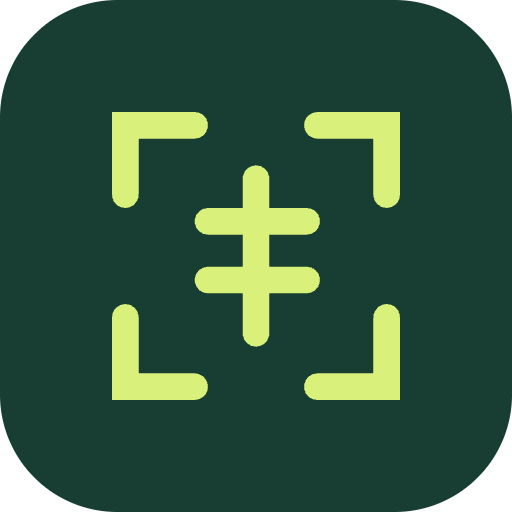
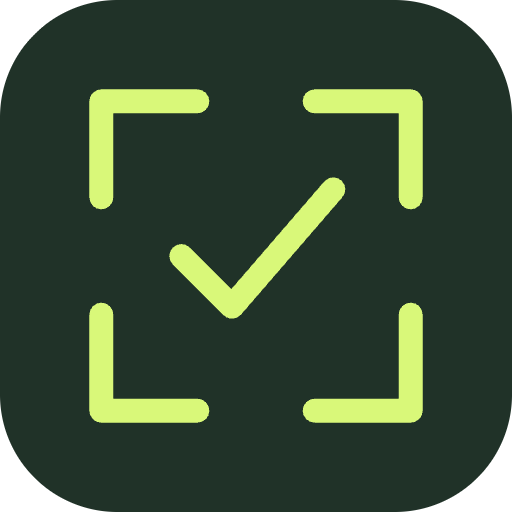
Redesign camera-first experience with ink and citrus visual system

diff --git a/src/style.css b/src/style.css
@@ -1,5 +1,4 @@
-@import url('https://fonts.googleapis.com/css2?family=DM+Sans:wght@400;500;600;700&family=Manrope:wght@400;500;600;700;800&display=swap');
-:root{font-family:'DM Sans',sans-serif;color:#18362f;background:#f6f5ef;font-synthesis:none;--green:#183e34;--lime:#d9f17b}*{box-sizing:border-box}body{margin:0}button,input,select{font:inherit}button,a,label.photo-button{-webkit-tap-highlight-color:transparent}button{cursor:pointer}button:disabled{opacity:.5;cursor:wait}button:focus-visible,select:focus-visible,input:focus-visible,a:focus-visible{outline:3px solid #689c40;outline-offset:4px}[hidden]{display:none!important}header,footer{max-width:1080px;margin:auto;padding:26px 30px;display:flex;align-items:center;justify-content:space-between}.brand{font-family:Manrope,sans-serif;text-decoration:none;color:inherit;font-size:22px;font-weight:800;display:flex;gap:8px;align-items:center}.brand-icon{font-size:35px;line-height:1}.beta{font:700 9px 'DM Sans';letter-spacing:1px;background:#e3e8d9;padding:4px 6px;border-radius:4px;margin-left:4px}.icon-button{border:1px solid #cfdbcc;border-radius:50%;width:32px;height:32px;background:transparent;font-weight:600}.intro{text-align:center;margin:42px auto 32px;padding:0 20px}.eyebrow{font-size:10px;letter-spacing:2px;font-weight:700;color:#677562}h1{font-family:Manrope,sans-serif;font-size:clamp(35px,6vw,58px);line-height:1.12;letter-spacing:-2.6px;margin:18px 0}h1 em{font-style:normal;color:#6c8053}.intro>p{font-size:15px;color:#778071}.converter{max-width:530px;margin:0 auto;background:#fff;border:1px solid #e2e6da;border-radius:24px;padding:22px;box-shadow:0 16px 60px #28371a08}.currencies{display:grid;grid-template-columns:1fr 36px 1fr;gap:10px;align-items:center;margin-bottom:18px}.currencies label,.manual>label{font-size:9px;letter-spacing:1.3px;color:#72806c;font-weight:700}.currencies select{display:block;width:100%;margin-top:8px;padding:10px 8px;background:#f5f6f1;border:1px solid #e5e9df;border-radius:9px;font-size:13px;color:var(--green);font-weight:600;min-width:0}.swap{border:1px solid #e4e9db;background:#fff;border-radius:50%;width:32px;height:32px;margin-top:17px;font-size:20px}.viewfinder{position:relative;background:#eaf0df;border-radius:15px;min-height:274px;overflow:hidden}.camera-empty{text-align:center;padding:19px}.scan-icon{font-size:45px;color:#79925f;line-height:1}h2{font-family:Manrope;font-size:20px;letter-spacing:-.7px;line-height:1.3;margin:12px 0}.camera-empty p{font-size:12px;color:#7c896c;margin:10px 0 17px}.primary{display:flex;justify-content:space-between;align-items:center;background:var(--green);color:#fff;border:0;border-radius:9px;padding:13px 17px;min-width:195px;margin:0 auto;font-size:13px}.primary span{margin-left:30px}.photo-button{display:inline-block;font-size:12px;margin:13px auto 0;text-decoration:underline;text-underline-offset:3px;cursor:pointer}.photo-button input{position:absolute;width:1px;height:1px;opacity:0}.photo-button:focus-within{outline:3px solid #689c40}video{display:none;width:100%;height:350px;object-fit:cover;background:#17231c}canvas{width:100%;height:auto;max-height:350px;object-fit:contain;background:#17231c}.camera-active video{display:block}.frame-guide{position:absolute;inset:28% 12% 35%;border:2px solid var(--lime);border-radius:12px;box-shadow:0 0 0 1000px #0002;pointer-events:none}.camera-tip{position:absolute;bottom:75px;color:white;text-align:center;width:100%;font-size:11px;text-shadow:0 1px 4px #000}.shutter{position:absolute;bottom:15px;left:calc(50% - 26px);border:5px solid #fff;background:var(--lime);border-radius:50%;height:52px;width:52px;box-shadow:0 0 0 2px #fff6}.close-camera{position:absolute;right:12px;top:12px;width:30px;height:30px;border:0;border-radius:50%;background:#0008;color:#fff;font-size:21px}#scan-busy{position:absolute;inset:0;background:#eaf0dff5;display:flex;flex-direction:column;align-items:center;justify-content:center;gap:13px;font-size:14px}#scan-progress{font-size:11px;color:#647b58}.spinner{width:24px;height:24px;border:2px solid #c5d5b2;border-top-color:var(--green);border-radius:50%;animation:spin 1s linear infinite}@keyframes spin{to{transform:rotate(360deg)}}.manual{margin:23px 0 18px}.amount-line{display:flex;gap:10px;align-items:center;margin-top:7px;border-bottom:1px solid #d9e0d0;padding:0 0 12px}.amount-line input{width:100%;min-width:0;border:0;background:transparent;font-family:Manrope;font-size:33px;font-weight:600;color:var(--green);outline-offset:0}.amount-line>span:first-child{font-size:23px;color:#8a977f}.amount-line>span:last-child{font-size:12px;color:#7a8870}.result{background:var(--green);color:#fff;border-radius:14px;padding:22px 24px}.section-label{font-size:9px;letter-spacing:1.3px;font-weight:600}.result .section-label{color:#c5d4b6}#converted{font-family:Manrope;font-weight:600;font-size:clamp(26px,7vw,41px);letter-spacing:-1px;margin:8px 0;overflow-wrap:anywhere}#rate-detail{font-size:11px;color:#d4dec9}#rate-date{font-size:10px;color:#b0c39f;margin-top:6px}.bottom-note{display:flex;justify-content:space-between;align-items:center;gap:8px;padding-top:17px;font-size:9px;color:#738668}.text-button{background:none;border:none;padding:0;font-size:11px;color:inherit;text-decoration:underline;text-underline-offset:3px}.little-guide{max-width:670px;display:grid;grid-template-columns:repeat(3,1fr);gap:25px;margin:42px auto 30px;padding:0 20px}.little-guide span{font-size:10px;color:#8b9b7a}.little-guide h3{font-size:12px;margin:7px 0}.little-guide p{font-size:11px;color:#8a9281;line-height:1.6;margin:0}footer{font-size:11px;color:#8a9281;padding-top:24px;padding-bottom:30px}#status,.error{background:#fff1d7;color:#79550f;padding:12px;border-radius:9px;font-size:12px;line-height:1.5;margin-top:13px}#scan-results{padding-top:15px}#scan-results .section-label{display:flex;justify-content:space-between;color:#738668}#scan-results .section-label span{letter-spacing:0;font-weight:400}#candidates{display:flex;gap:8px;flex-wrap:wrap;margin:12px 0}#candidates button{border:1px solid #d4deca;border-radius:8px;background:#f4f7ee;color:var(--green);padding:8px 12px;font-size:14px}#candidates button.selected{background:var(--green);color:white}dialog{border:1px solid #d8dfcc;border-radius:20px;max-width:490px;width:calc(100% - 32px);padding:28px;color:var(--green);max-height:85dvh}dialog::backdrop{background:#10251dc0}dialog .icon-button{float:right}dialog p{font-size:13px;line-height:1.7;color:#62715c}dialog h3{font-size:14px}@media(max-width:580px){header,footer{padding:20px}.intro{margin-top:25px;margin-bottom:26px}h1{letter-spacing:-1.8px}.converter{margin:0 14px;padding:17px;border-radius:20px}.little-guide{gap:14px;margin-top:30px}.bottom-note{font-size:8px}.bottom-note button{font-size:10px}.currencies{gap:6px}.currencies select{font-size:12px;padding:10px 4px}footer{font-size:10px}}@media(prefers-reduced-motion:reduce){.spinner{animation:none}}
-/* Live camera: preserve video geometry for OCR overlay coordinates. */
-.camera-active{height:440px;min-height:440px;background:#14231b}.camera-active video{width:100%;height:100%;object-fit:cover}.camera-tip{bottom:12px;left:10px;right:10px;width:auto;background:#10251dd9;padding:10px 12px;border-radius:9px;z-index:3;margin:0;font-size:11px}.frame-guide{inset:12% 7% 20%;border:1px solid #d9f17b80;box-shadow:none}.close-camera{z-index:5}.price-overlay{position:absolute;border:2px solid #d9f17b;border-radius:4px;min-width:20px;min-height:12px;pointer-events:none}.price-overlay span{position:absolute;top:100%;left:-2px;max-width:220px;white-space:nowrap;background:#d9f17b;color:#102f2a;font-size:15px;font-weight:700;padding:5px 8px;border-radius:0 5px 5px 5px;box-shadow:0 2px 12px #0005}#live-overlays{position:absolute;inset:0;pointer-events:none;overflow:hidden;z-index:2}#converted{font-size:clamp(25px,7vw,41px)}.result{margin-top:18px}@media(max-width:580px){.camera-active{height:420px;min-height:420px}}
-.live-mode .intro,.live-mode .little-guide,.live-mode footer{display:none}.live-mode header{padding-top:14px;padding-bottom:14px}.live-mode .camera-active{height:clamp(320px,58dvh,640px);min-height:320px}.live-mode .converter{margin-top:8px}.live-mode .result{padding:14px 20px}.live-mode #converted{font-size:32px;margin:4px 0}
+@import url('https://fonts.googleapis.com/css2?family=DM+Sans:wght@400;450;500;550;600;650;700&family=DM+Serif+Display:ital@0;1&display=swap');
+:root{font-family:'DM Sans',sans-serif;color:#26372e;background:#f5f4ed;font-synthesis:none;--ink:#203228;--muted:#697567;--citrus:#d9f879;--line:#dfe2d5}*{box-sizing:border-box}body{margin:0}button,input,select{font:inherit}button,a,select{-webkit-tap-highlight-color:transparent}button{cursor:pointer}button:disabled{opacity:.6;cursor:wait}[hidden]{display:none!important}a{color:inherit}button:focus-visible,select:focus-visible,a:focus-visible,summary:focus-visible{outline:3px solid #7c9847;outline-offset:4px}button svg{width:21px;height:21px;stroke:currentColor;stroke-width:1.7;stroke-linecap:round;stroke-linejoin:round}button{touch-action:manipulation}.site-header{max-width:1160px;margin:auto;padding:28px 36px;display:flex;align-items:center;justify-content:space-between;border-bottom:1px solid var(--line)}.brand{display:flex;gap:8px;align-items:center;text-decoration:none;font-size:23px;font-weight:700;letter-spacing:-1px}.brand>svg{width:31px;height:31px}.brand-light{font-weight:450}.header-right{display:flex;gap:26px;align-items:center}.edition{font-size:9px;font-weight:600;letter-spacing:1.7px;color:var(--muted)}.icon-button{width:44px;height:44px;border:1px solid #d9dfd0;border-radius:50%;background:none;display:grid;place-items:center;color:var(--ink)}.workspace{max-width:1100px;margin:auto;padding:48px 24px 30px;display:grid;grid-template-columns:1fr 450px;gap:70px;align-items:center}.editorial{padding:0 0 35px}.eyebrow{font-size:9px;letter-spacing:1.6px;font-weight:650;display:flex;gap:9px;align-items:center;color:#65775c}.eyebrow>span{width:6px;height:6px;border-radius:50%;background:#6b8551}h1{font-family:'DM Serif Display',Georgia,serif;font-size:clamp(48px,5.3vw,70px);line-height:1.05;font-weight:400;letter-spacing:-2px;margin:24px 0}h1 i{font-weight:400;color:#6c8456}.editorial>p{font-size:15px;color:#71806b;line-height:1.8}.editorial-rule{height:1px;background:var(--line);max-width:260px;margin:35px 0 25px}.how-to{display:flex;gap:15px;margin:22px 0}.step-number{font-size:10px;line-height:24px;color:#859477;font-variant-numeric:tabular-nums}.how-to h2{font-size:13px;line-height:24px;margin:0;font-weight:600}.how-to p{font-size:12px;line-height:1.7;color:#78826f;margin:2px 0}.privacy-mark{display:flex;gap:8px;align-items:center;color:#667b56;font-size:10px;margin-top:38px}.privacy-mark svg{width:18px;height:18px;stroke:currentColor;stroke-width:1.5;stroke-linejoin:round}.scanner-shell{min-width:0;background:#fffef8;border:1px solid #e1e3d6;border-radius:25px;padding:18px;box-shadow:0 5px 10px #263b1d03,0 25px 75px #28371a09}.shell-heading{display:flex;justify-content:space-between;align-items:center;margin:1px 4px 16px;font-size:9px;letter-spacing:1.8px;font-weight:650;color:#748169}.beta{font-size:8px;letter-spacing:1px;background:#edf0e2;border:1px solid #e0e6d3;border-radius:4px;padding:3px 5px}.currencies{display:grid;grid-template-columns:minmax(0,1fr) 40px minmax(0,1fr);gap:10px;align-items:center;padding:0 4px 16px}.currencies label{min-width:0}.currency-label{display:flex;gap:7px;align-items:center;font-size:9px;font-weight:700;letter-spacing:1.2px}.currency-label>span{font-weight:400;font-size:10px;letter-spacing:0;color:#809076}.currencies select{display:block;background:transparent;border:0;border-bottom:1px solid #dfe4d4;border-radius:0;color:var(--ink);font-size:14px;font-weight:550;width:100%;height:40px;padding:0 16px 0 0;text-overflow:ellipsis;cursor:pointer}.swap{border:1px solid #d9dfd0;background:#f5f7ed;color:#536646;border-radius:50%;height:40px;width:40px;margin-top:12px;display:grid;place-items:center;transition:background .2s,transform .2s}.swap:hover{background:#e9efd8;transform:rotate(180deg)}.viewfinder{height:418px;position:relative;isolation:isolate;overflow:hidden;border-radius:16px;background:#24362b;color:#f6f7eb}.viewfinder:before{content:'';position:absolute;inset:0;background:radial-gradient(ellipse at 72% 10%,#6d835b30,transparent 60%),linear-gradient(145deg,#24372c,#15261d);z-index:-1}.camera-topline{position:absolute;left:18px;right:18px;top:18px;display:flex;align-items:center;justify-content:space-between;z-index:4;pointer-events:none}.camera-badge{display:flex;align-items:center;gap:6px;border:1px solid #b7c5a528;background:#17261e88;border-radius:50px;padding:6px 9px;backdrop-filter:blur(8px)}.camera-badge>span{width:5px;height:5px;border-radius:50%;background:#a1b18e}.camera-badge b,.local-badge{font-size:8px;letter-spacing:1.1px;font-weight:550}.local-badge{color:#b9c6ae}.active-label{display:none}.camera-empty{height:100%;display:flex;flex-direction:column;align-items:center;text-align:center;padding:58px 22px 18px}.ready-visual{position:relative;width:150px;height:100px;flex-shrink:0;margin:4px auto 16px}.corner{position:absolute;width:16px;height:16px;border-color:#a7be88;border-style:solid;border-width:0}.tl{top:0;left:0;border-top-width:1.5px;border-left-width:1.5px;border-top-left-radius:5px}.tr{top:0;right:0;border-top-width:1.5px;border-right-width:1.5px;border-top-right-radius:5px}.bl{bottom:0;left:0;border-bottom-width:1.5px;border-left-width:1.5px;border-bottom-left-radius:5px}.br{bottom:0;right:0;border-bottom-width:1.5px;border-right-width:1.5px;border-bottom-right-radius:5px}.price-tag{position:absolute;width:110px;height:83px;left:20px;top:10px;transform:rotate(-10deg);filter:drop-shadow(0 9px 8px #0003)}.small-cross{position:absolute;right:-13px;bottom:13px;color:#b8d595;font-size:18px;font-weight:400}.camera-empty h2{font-family:'DM Serif Display',Georgia,serif;font-size:28px;line-height:1.12;letter-spacing:-.5px;font-weight:400;margin:0}.camera-empty p{font-size:11px;color:#b6c4aa;line-height:1.6;margin:12px 0 20px}.primary{background:var(--citrus);color:#23351e;border:none;border-radius:10px;padding:14px 16px;min-height:50px;display:flex;align-items:center;gap:10px;width:100%;font-size:13px;font-weight:650;box-shadow:0 2px 0 #0002;transition:background .2s,transform .2s}.primary:hover{background:#e2ff91}.primary:active{transform:translateY(1px)}.button-arrow{margin-left:auto;font-size:20px;font-weight:400}.permission-note{font-size:9px;line-height:1.5;color:#a1b18f;margin-top:13px}video{display:none;width:100%;height:100%;object-fit:cover;background:#16261c}.camera-active video{display:block}.viewfinder-shade{display:none;position:absolute;inset:0;pointer-events:none;background:linear-gradient(#0005,transparent 25%,transparent 65%,#0006);z-index:1}.camera-active .viewfinder-shade{display:block}.camera-active .ready-label{display:none}.camera-active .active-label{display:inline}.camera-active .camera-badge>span{background:var(--citrus);box-shadow:0 0 0 3px #d9f8791a}.camera-active .local-badge{display:none}.close-camera{position:absolute;right:12px;top:11px;z-index:5;width:44px;height:44px;border:1px solid #ffffff30;border-radius:50%;background:#14271bbd;color:#fff;display:grid;place-items:center;backdrop-filter:blur(8px)}.frame-guide{position:absolute;inset:22% 8% 27%;pointer-events:none;z-index:1}.frame-guide .corner{width:22px;height:22px;border-color:#e2f9b985}.camera-tip{position:absolute;bottom:17px;left:16px;right:16px;margin:0;background:#14271bd9;border:1px solid #b7d59a25;border-radius:50px;color:#edf5df;backdrop-filter:blur(12px);padding:10px 12px;text-align:center;font-size:10px;line-height:1.5;z-index:3;pointer-events:none}.camera-tip:before{content:'';display:inline-block;width:5px;height:5px;background:var(--citrus);border-radius:50%;margin-right:7px;vertical-align:1px}#live-overlays{position:absolute;inset:0;overflow:hidden;z-index:2;pointer-events:none}.price-overlay{position:absolute;border:1.5px solid var(--citrus);border-radius:4px;min-width:18px;min-height:12px}.price-overlay span{position:absolute;top:calc(100% + 5px);left:-2px;max-width:250px;white-space:nowrap;background:var(--citrus);color:#20321d;font-size:17px;line-height:1.2;font-weight:650;font-variant-numeric:tabular-nums;letter-spacing:-.3px;padding:7px 10px;border-radius:6px;box-shadow:0 3px 15px #0004}.result{margin:15px 3px 0;padding:2px 0 16px;border-bottom:1px solid var(--line)}.result-top{display:flex;justify-content:space-between;gap:10px;align-items:center;min-height:17px}.section-label{font-size:8px;letter-spacing:1.3px;font-weight:650;color:#79836f}#source-price{font-size:10px;color:#66775b;font-variant-numeric:tabular-nums;white-space:nowrap}#converted{font-size:36px;line-height:1.2;letter-spacing:-1.5px;font-weight:500;font-variant-numeric:tabular-nums;margin:6px 0;color:#2b3c29;overflow-wrap:anywhere}.result[data-detected=false] #converted{font-size:26px;letter-spacing:-.7px;min-height:35px;display:flex;align-items:center}.result-bottom{display:flex;justify-content:space-between;align-items:center;gap:10px}#result-hint{font-size:10px;color:#7d8871}.result-spark{color:#829964;font-size:23px}.rate-notes{margin:0 3px;color:#74826b}.rate-notes summary{display:flex;justify-content:space-between;align-items:center;cursor:pointer;list-style:none;font-size:10px;min-height:44px}.rate-notes summary::-webkit-details-marker{display:none}.details-plus{font-size:18px;font-weight:400}.rate-notes[open] .details-plus{transform:rotate(45deg)}#rate-detail,#rate-date{font-size:11px;line-height:1.7;color:#6a7b5e}#rate-date{font-size:10px}.text-button{background:none;border:0;padding:0;color:inherit;font-size:10px;cursor:pointer;min-height:32px;text-underline-offset:4px}.text-button:hover{text-decoration:underline}#refresh{margin:4px 0}.scanner-footer{display:flex;align-items:center;justify-content:center;gap:6px;font-size:9px;color:#7e8d70;border-top:1px solid #e9ecdf;padding:12px 0 0}.privacy-dot{width:4px;height:4px;border-radius:50%;background:#7b9759}.footer-divider{color:#bcc6b1;margin:0 3px}#status{font-size:12px;line-height:1.6;color:#725b28;background:#f7efdc;border:1px solid #e8d9b4;border-radius:10px;padding:12px;margin:12px 0}footer{max-width:1080px;display:flex;justify-content:space-between;align-items:center;margin:8px auto 0;padding:20px 24px 24px;border-top:1px solid var(--line);color:#7b8870;font-size:10px}footer button span{margin-left:10px}dialog{max-width:470px;width:calc(100% - 28px);max-height:85dvh;border:1px solid #dce2cf;border-radius:22px;background:#fffef7;color:var(--ink);padding:28px;box-shadow:0 30px 100px #0003}dialog::backdrop{background:#13231bd9;backdrop-filter:blur(6px)}dialog .icon-button{float:right;font-size:23px;margin:-10px -10px 4px 10px}dialog .eyebrow{display:block;font-size:8px;margin:12px 0}dialog h2{font-family:'DM Serif Display',Georgia,serif;font-size:31px;line-height:1.1;font-weight:400;margin:18px 0}dialog h3{font-size:13px;margin:24px 0 8px}dialog p{font-size:12px;line-height:1.8;color:#66775b}.live-mode .editorial{opacity:.75}.live-mode .viewfinder{height:418px}@media(min-width:1200px){.workspace{padding-top:56px;padding-bottom:42px}}@media(max-width:850px){.workspace{grid-template-columns:1fr 420px;gap:28px}h1{font-size:47px}.editorial .eyebrow{font-size:8px}.editorial>p{font-size:13px}}@media(max-width:700px){.site-header{padding:14px 22px;border-bottom:none;max-width:500px}.brand{font-size:22px}.brand>svg{width:28px;height:28px}.header-right{gap:10px}.edition{display:none}.icon-button{width:40px;height:40px}.workspace{display:block;padding:0 14px;max-width:480px}.editorial{display:none}.scanner-shell{padding:14px;border-radius:22px;box-shadow:0 15px 40px #24371c07}.shell-heading{margin-bottom:14px}.currencies{gap:9px;padding:0 3px 15px;grid-template-columns:minmax(0,1fr) 40px minmax(0,1fr)}.currencies select{font-size:13px}.currency-label>span{font-size:9px}.viewfinder,.live-mode .viewfinder{height:clamp(340px,45dvh,418px)}.camera-empty{padding:58px 19px 16px}.ready-visual{width:130px;height:85px;margin:0 auto 13px}.price-tag{width:99px;height:76px;left:15px;top:3px}.camera-empty h2{font-size:27px}.camera-empty p{margin:10px 0 17px}.primary{min-height:48px;padding:12px 13px}.permission-note{font-size:8px;margin-top:12px}.result{margin-top:14px;padding-bottom:12px}#converted{font-size:36px;margin:5px 0}.result[data-detected=false] #converted{font-size:23px;min-height:32px}.rate-notes summary{min-height:40px}.scanner-footer{padding-top:10px;font-size:8px}footer{border:0;max-width:480px;margin:0 auto;padding:9px 23px 16px;font-size:8px}footer .text-button{font-size:9px}.camera-topline{left:15px;right:15px;top:15px}}@media(max-width:360px){.workspace{padding:0 9px}.scanner-shell{padding:12px}.currency-label>span{display:none}.currencies select{font-size:12px}.viewfinder,.live-mode .viewfinder{height:340px}.camera-empty{padding:55px 15px 14px}.permission-note{font-size:7.5px}.section-label{font-size:7px}.camera-empty p{font-size:10px}footer>span{display:none}footer{justify-content:center}}@media(prefers-reduced-motion:reduce){*,*:before,*:after{transition:none!important;animation:none!important}}
+/* Full native currency picker, with an uncluttered selected-state presentation. */
+.currencies label{position:relative;display:block;padding-bottom:9px;border-bottom:1px solid #dfe4d4;cursor:pointer}.currency-value{display:flex;align-items:center;justify-content:space-between;margin-top:8px;gap:8px}.currency-value b{font-size:22px;font-weight:550;letter-spacing:-.7px;line-height:1.1}.currency-value svg{width:18px;height:18px;stroke:#66775b;stroke-width:1.5;stroke-linecap:round;stroke-linejoin:round}.currency-name{display:block;font-size:10px;color:#73836a;margin-top:5px;white-space:nowrap;overflow:hidden;text-overflow:ellipsis}.currencies select{position:absolute;inset:0;opacity:0;width:100%;height:100%;padding:0;cursor:pointer}.currencies label:focus-within{outline:3px solid #a0b773;outline-offset:4px;border-radius:4px}.currencies select:focus-visible{outline:none}.swap{margin-top:15px}.camera-empty{padding-top:58px}.viewfinder{height:432px}.live-mode .viewfinder{height:432px}@media(max-width:700px){.currency-value b{font-size:22px}.currencies{padding-bottom:14px}.viewfinder,.live-mode .viewfinder{height:clamp(340px,43dvh,406px)}.camera-empty{padding-top:57px}.permission-note{margin-top:10px}.camera-empty p{margin-bottom:16px}.ready-visual{height:80px}.camera-empty h2{font-size:26px}}@media(max-width:360px){.viewfinder,.live-mode .viewfinder{height:340px}.currency-name{font-size:9px}.currency-value b{font-size:21px}.camera-empty{padding-top:53px}.camera-empty p{margin-bottom:13px}}

diff --git a/index.html b/index.html
@@ -1,10 +1,10 @@
-<!doctype html><html lang="en"><head><meta charset="UTF-8"><meta name="viewport" content="width=device-width,initial-scale=1,viewport-fit=cover"><meta name="theme-color" content="#102f2a"><meta name="description" content="See a price. Know what it costs at home. A private, camera-powered travel currency converter."><link rel="manifest" href="./manifest.webmanifest"><link rel="icon" href="./icon.svg" type="image/svg+xml"><link rel="apple-touch-icon" href="./icon-180.png"><meta name="apple-mobile-web-app-capable" content="yes"><title>Price Lens — prices, translated.</title></head><body><div id="app">
-<header><a class="brand" href="./" aria-label="Price Lens home"><span class="brand-icon">⌑</span> price lens<span class="beta">BETA</span></a><button id="help" class="icon-button" aria-label="How it works">?</button></header>
-<main><section class="intro"><div class="eyebrow">LESS MENTAL MATH. MORE EXPLORING.</div><h1>A foreign price.<br><em>A familiar number.</em></h1><p>Point your camera. See prices in your home currency.</p></section>
-<section class="converter" aria-label="Currency converter"><div class="currencies"><label>YOU’RE SPENDING<select id="from" aria-label="Source currency"></select></label><button id="swap" class="swap" aria-label="Swap currencies">⇄</button><label>YOU THINK IN<select id="to" aria-label="Home currency"></select></label></div>
-<div class="viewfinder" id="viewfinder"><video id="video" playsinline muted aria-label="Live camera preview"></video><div id="live-overlays" aria-hidden="true"></div><div class="camera-empty" id="camera-empty"><span class="scan-icon" aria-hidden="true">⌑</span><h2>Point at a price.<br>See it in your currency.</h2><p>Live conversion. No photos. No shutter button.</p><button id="start-camera" class="primary">Open live camera <span>↗</span></button></div><div id="camera-controls" hidden><div class="frame-guide" aria-hidden="true"></div><p class="camera-tip" id="live-state" role="status"></p><button id="close-camera" class="close-camera" aria-label="Close camera">×</button></div></div><input id="amount" type="hidden" value=""><span id="source-symbol" hidden></span><span id="source-code" hidden></span><p id="amount-error" hidden></p>
-<div class="result" aria-live="polite"><div class="section-label">AT HOME, THAT’S ABOUT</div><div id="converted">—</div><div id="rate-detail">Loading exchange rates…</div><div id="rate-date"></div></div><div id="status" role="status" hidden></div><div class="bottom-note"><span>◈ Camera processed on your device</span><button id="refresh" class="text-button">Refresh rates ↻</button></div></section>
-<section class="little-guide"><div><span>01</span><h3>Pick your currencies</h3><p>Where you are. Where home is.</p></div><div><span>02</span><h3>Aim at the number</h3><p>Point your live camera at a label.</p></div><div><span>03</span><h3>Keep exploring</h3><p>No account. No mental arithmetic.</p></div></section>
-</main><footer><span>Built for curious travellers.</span><button id="privacy" class="text-button">Privacy & details</button></footer>
-<dialog id="info-dialog"><button id="close-info" class="icon-button" aria-label="Close details">×</button><div class="eyebrow">A SMALL TRAVEL COMPANION</div><h2>Prices, translated.</h2><p>Choose the currency on the price tag and your home currency, then open the live camera. Hold a clear price in view. Converted amounts appear over the detected numbers automatically—no photo or tap needed.</p><h3>A few honest details</h3><p>Recognition runs repeatedly on your live camera feed, not on every video frame. A price must be read twice before appearing. Speed depends on your phone; it may take a few seconds. Old labels disappear when no longer detected.</p><p>OCR can misread labels or mistake product codes, dates and weights for prices. Confirm the original number and selected currency. Daily Frankfurter reference rates exclude bank fees; the date and any saved-rate fallback are shown below.</p><h3>Privacy</h3><p>Camera frames are processed on your device and are not uploaded, saved as photos or recorded. Currency choices and rates are saved in this browser. No accounts, ads or analytics. The host, font and rate providers receive ordinary web requests, not camera images.</p><p>Camera access requires HTTPS or localhost and your permission. Closing the camera or leaving the app stops the camera. Add to Home Screen is available where your browser supports it. First use downloads the on-device recognition model.</p></dialog>
-<script type="module" src="./src/main.js"></script></div></body></html>
+<!doctype html><html lang="en"><head><meta charset="UTF-8"><meta name="viewport" content="width=device-width,initial-scale=1,viewport-fit=cover"><meta name="theme-color" content="#f5f4ed"><meta name="description" content="See a price. Know what it costs at home. A private, camera-powered travel currency converter."><link rel="manifest" href="./manifest.webmanifest"><link rel="icon" href="./icon.svg" type="image/svg+xml"><link rel="apple-touch-icon" href="./icon-180.png"><meta name="apple-mobile-web-app-capable" content="yes"><title>Price Lens — prices, translated.</title></head><body><div id="app">
+<header class="site-header"><a class="brand" href="./" aria-label="Price Lens home"><svg viewBox="0 0 32 32" fill="none" aria-hidden="true"><path d="M11 5H5v6M21 5h6v6M27 21v6h-6M11 27H5v-6" stroke="currentColor" stroke-width="2.5" stroke-linecap="round"/><path d="m12 16 3 3 6-7" stroke="currentColor" stroke-width="2.5" stroke-linecap="round" stroke-linejoin="round"/></svg><span>price<span class="brand-light">lens</span></span></a><div class="header-right"><span class="edition">THE TRAVEL EDITION / 01</span><button id="help" class="icon-button" aria-label="How it works"><svg viewBox="0 0 24 24" fill="none" aria-hidden="true"><circle cx="12" cy="12" r="8.5"/><path d="M9.8 9.2a2.3 2.3 0 0 1 4.5.6c0 1.8-2.3 1.8-2.3 3.6M12 16.5v.1"/></svg></button></div></header>
+<main class="workspace"><aside class="editorial"><div class="eyebrow"><span></span> YOUR POCKET PRICE TRANSLATOR</div><h1>A new place.<br>A familiar <i>price.</i></h1><p>Less converting in your head.<br>More being where you are.</p><div class="editorial-rule"></div><div class="how-to"><span class="step-number">01</span><div><h2>Choose away. Choose home.</h2><p>Set the price-tag currency and yours.</p></div></div><div class="how-to"><span class="step-number">02</span><div><h2>Point. That’s it.</h2><p>Your camera finds the number.<br>Your home currency appears over it.</p></div></div><div class="privacy-mark"><svg viewBox="0 0 24 24" fill="none" aria-hidden="true"><path d="m12 3 7 3v5c0 5-7 10-7 10S5 16 5 11V6l7-3Z"/><path d="m9 12 2 2 4-4"/></svg><span>On your device. Never uploaded.</span></div></aside>
+<section class="scanner-shell" aria-label="Currency converter"><div class="shell-heading"><span>YOUR LIVE LENS</span><span class="beta">BETA</span></div><div class="currencies"><label><span class="currency-label">AWAY <span>Price tag</span></span><span class="currency-value"><b id="from-label"></b><svg viewBox="0 0 20 20" fill="none" aria-hidden="true"><path d="m6 8 4 4 4-4"/></svg></span><span id="from-name" class="currency-name"></span><select id="from" aria-label="Source currency"></select></label><button id="swap" class="swap" aria-label="Swap currencies"><svg viewBox="0 0 24 24" fill="none" aria-hidden="true"><path d="M5 8h14m-4-4 4 4-4 4M19 16H5m4-4-4 4 4 4"/></svg></button><label><span class="currency-label">HOME <span>Your money</span></span><span class="currency-value"><b id="to-label"></b><svg viewBox="0 0 20 20" fill="none" aria-hidden="true"><path d="m6 8 4 4 4-4"/></svg></span><span id="to-name" class="currency-name"></span><select id="to" aria-label="Home currency"></select></label></div>
+<div class="viewfinder" id="viewfinder"><video id="video" playsinline muted aria-label="Live camera preview"></video><div class="viewfinder-shade" aria-hidden="true"></div><div class="camera-topline"><span class="camera-badge"><span></span><b class="ready-label">LIVE CAMERA</b><b class="active-label">LENS IS LIVE</b></span><span class="local-badge">ON-DEVICE</span></div><div id="live-overlays" aria-hidden="true"></div><div class="camera-empty" id="camera-empty"><div class="ready-visual" aria-hidden="true"><span class="corner tl"></span><span class="corner tr"></span><span class="corner bl"></span><span class="corner br"></span><svg class="price-tag" viewBox="0 0 150 110" fill="none"><path d="M12 22h92l34 33-34 33H12V22Z" fill="#e9e9d5"/><circle cx="111" cy="55" r="5" fill="#202b25"/><path d="M27 43h51M27 57h38M27 71h20" stroke="#465344" stroke-width="4" stroke-linecap="round"/></svg><span class="small-cross">+</span></div><h2>Let’s make prices<br>feel familiar.</h2><p>Aim at a price. We’ll do the conversion.</p><button id="start-camera" class="primary"><svg viewBox="0 0 24 24" fill="none" aria-hidden="true"><path d="M8 6 9.5 4h5L16 6h4v14H4V6h4Z"/><circle cx="12" cy="12.5" r="3.5"/></svg><span>Open live camera</span><span class="button-arrow">↗</span></button><span class="permission-note">Camera permission needed · nothing is recorded</span></div><div id="camera-controls" hidden><div class="frame-guide" aria-hidden="true"><span class="corner tl"></span><span class="corner tr"></span><span class="corner bl"></span><span class="corner br"></span></div><p class="camera-tip" id="live-state" role="status"></p><button id="close-camera" class="close-camera" aria-label="Close camera"><svg viewBox="0 0 24 24" fill="none" aria-hidden="true"><path d="m7 7 10 10M17 7 7 17"/></svg></button></div></div>
+<input id="amount" type="hidden" value=""><span id="source-symbol" hidden></span><span id="source-code" hidden></span><p id="amount-error" hidden></p>
+<div id="status" role="status" hidden></div><div class="result" aria-live="polite"><div class="result-top"><span class="section-label">IN YOUR HOME CURRENCY</span><span id="source-price"></span></div><div id="converted">—</div><div class="result-bottom"><span id="result-hint">Your next price appears here.</span><span class="result-spark" aria-hidden="true">↗</span></div></div>
+<details class="rate-notes"><summary><span>Exchange rate & details</span><span class="details-plus" aria-hidden="true">+</span></summary><div id="rate-detail">Loading exchange rates…</div><div id="rate-date"></div><button id="refresh" class="text-button">Refresh rates ↻</button></details><div class="scanner-footer"><span class="privacy-dot"></span>Private by design<span class="footer-divider">/</span>No account needed</div></section></main>
+<footer><span>Made for the way you wander.</span><button id="privacy" class="text-button">Privacy & how it works <span>↗</span></button></footer>
+<dialog id="info-dialog"><button id="close-info" class="icon-button" aria-label="Close details">×</button><div class="eyebrow">A SMALL TRAVEL COMPANION</div><h2>Prices, translated.</h2><p>Choose the currency on the price tag and your home currency, then open the live camera. Hold a clear price in view. Converted amounts appear over the detected numbers automatically—no photo or tap needed.</p><h3>A few honest details</h3><p>Recognition runs repeatedly on your live camera feed, not on every video frame. A price must be read twice before appearing. Speed depends on your phone; it may take a few seconds. Old labels disappear when no longer detected.</p><p>OCR can misread labels or mistake product codes, dates and weights for prices. Confirm the original number and selected currency. Daily Frankfurter reference rates exclude bank fees; the date and any saved-rate fallback are shown below.</p><h3>Privacy</h3><p>Camera frames are processed on your device and are not uploaded, saved as photos or recorded. Currency choices and rates are saved in this browser. No accounts, ads or analytics. The host, font and rate providers receive ordinary web requests, not camera images.</p><p>Camera access requires HTTPS or localhost and your permission. Closing the camera or leaving the app stops the camera. Add to Home Screen is available where your browser supports it. First use downloads the on-device recognition model.</p></dialog><script type="module" src="./src/main.js"></script></div></body></html>

diff --git a/src/main.js b/src/main.js
@@ -7,11 +7,11 @@ let stream=null,workerPromise=null,rate=null,rateDate='',rateSaved=false,request
 function read(key){try{return JSON.parse(localStorage.getItem(key))}catch{return null}}
 function save(key,value){try{localStorage.setItem(key,JSON.stringify(value))}catch{}}
 const prefs=read('price-lens-prefs')||{};
-for(const id of ['from','to'])for(const [code,name]of Object.entries(currencies)){const option=document.createElement('option');option.value=code;option.textContent=`${code} · ${name}`;$(id).append(option)}
+for(const id of ['from','to'])for(const [code,name]of Object.entries(currencies)){const option=document.createElement('option');option.value=code;option.textContent=`${code} · ${name.replace(/^[^A-Za-z]+/,'')}`;$(id).append(option)}
 $('from').value=currencies[prefs.from]?prefs.from:'THB';$('to').value=currencies[prefs.to]?prefs.to:'INR';
 function status(message){$('status').textContent=message;$('status').hidden=!message}
 function format(n,currency){return new Intl.NumberFormat('en-IN',{style:'currency',currency,maximumFractionDigits:currency==='JPY'||currency==='KRW'?0:2}).format(n)}
-function render(){const from=$('from').value,to=$('to').value;const symbol=new Intl.NumberFormat('en',{style:'currency',currency:from}).formatToParts(0).find(x=>x.type==='currency')?.value||from;$('source-symbol').textContent=symbol;$('source-code').textContent=from;const amount=parseAmount($('amount').value);$('amount-error').hidden=true;$('amount-error').textContent='Enter a positive price, such as 589 or 1,250.50.';const value=convert(amount,rate);$('converted').textContent=amount===null?(stream?'Point at a price':'Open the camera'):value===null?'—':format(value,to);$('rate-detail').textContent=rate?`1 ${from} = ${new Intl.NumberFormat('en-IN',{maximumFractionDigits:5}).format(rate)} ${to} · before bank fees`:'Exchange rate unavailable';$('rate-date').textContent=rate?(from===to?'Same currency':`${rateSaved?'Saved rate · ':''}Reference date ${rateDate}`):'Check your connection and refresh';drawOverlays();}
+function render(){const from=$('from').value,to=$('to').value;for(const key of ['from','to']){$(`${key}-label`).textContent=$(key).value;$(`${key}-name`).textContent=currencies[$(key).value].replace(/^[^A-Za-z]+/,'');}const symbol=new Intl.NumberFormat('en',{style:'currency',currency:from}).formatToParts(0).find(x=>x.type==='currency')?.value||from;$('source-symbol').textContent=symbol;$('source-code').textContent=from;const amount=parseAmount($('amount').value);$('amount-error').hidden=true;$('amount-error').textContent='Enter a positive price, such as 589 or 1,250.50.';const value=convert(amount,rate);$('converted').textContent=amount===null?(stream?'Looking for a price…':'—'):value===null?'—':format(value,to);$('rate-detail').textContent=rate?`1 ${from} = ${new Intl.NumberFormat('en-IN',{maximumFractionDigits:5}).format(rate)} ${to} · before bank fees`:'Exchange rate unavailable';$('rate-date').textContent=rate?(from===to?'Same currency':`${rateSaved?'Saved rate · ':''}Reference date ${rateDate}`):'Check your connection and refresh';$('source-price').textContent=amount===null?'':`${new Intl.NumberFormat('en-IN',{maximumFractionDigits:2}).format(amount)} ${from}`;$('result-hint').textContent=amount===null?(stream?'Hold steady on a clear price label.':'Your next price appears here.'):'Approximate · before bank fees';document.querySelector('.result').dataset.detected=String(amount!==null);drawOverlays();}
 async function loadRate(){$('refresh').disabled=false;const id=++requestId,from=$('from').value,to=$('to').value;rate=null;rateDate='';rateSaved=false;save('price-lens-prefs',{from,to});render();if(from===to){rate=1;render();return}const cacheKey=`price-lens-rate-${from}-${to}`,cached=read(cacheKey);if(cached&&Number.isFinite(cached.rate)&&cached.rate>0&&/^\d{4}-\d{2}-\d{2}$/.test(cached.date)){rate=cached.rate;rateDate=cached.date;rateSaved=true;render()}$('refresh').disabled=true;try{const response=await fetch(`https://api.frankfurter.dev/v1/latest?base=${from}&symbols=${to}`,{cache:'no-store',signal:AbortSignal.timeout(12000)});if(!response.ok)throw Error('Rates unavailable');const data=await response.json();if(id!==requestId)return;const value=data.rates?.[to];if(!Number.isFinite(value)||value<=0||!/^\d{4}-\d{2}-\d{2}$/.test(data.date))throw Error('Invalid rate');rate=value;rateDate=data.date;rateSaved=false;save(cacheKey,{rate,date:rateDate});status('');}catch(e){if(id!==requestId)return;status(rate?'Could not refresh. Showing a saved reference rate—check its date before relying on it.':'Could not get an exchange rate for this pair. Check your connection or choose another currency.');}finally{if(id===requestId){$('refresh').disabled=false;render()}}}
 $('amount').addEventListener('input',render);for(const id of ['from','to'])$(id).addEventListener('change',loadRate);$('swap').onclick=()=>{const from=$('from').value;$('from').value=$('to').value;$('to').value=from;loadRate()};$('refresh').onclick=loadRate;
 let cameraEpoch=0, loopTimer=null, inFlight=false, detections=[], lastCandidates=[], lastRead=0;
@@ -20,7 +20,7 @@ function clearDetections(){detections=[];lastCandidates=[];lastRead=0;$('amount'
 function drawOverlays(){
   const layer=$('live-overlays');layer.replaceChildren();
   for(const item of detections){const tag=document.createElement('div');tag.className='price-overlay';tag.style.left=`${item.x*100}%`;tag.style.top=`${item.y*100}%`;tag.style.width=`${item.w*100}%`;tag.style.height=`${item.h*100}%`;
-    const label=document.createElement('span');const value=convert(item.value,rate);label.textContent=value===null?'Rate unavailable':format(value,$('to').value);tag.append(label);layer.append(tag);}
+    const label=document.createElement('span');const value=convert(item.value,rate);label.textContent=value===null?'Rate unavailable':format(value,$('to').value);if(item.x>.55){label.style.left='auto';label.style.right='-2px';}if(item.y+item.h>.78){label.style.top='auto';label.style.bottom='100%';}tag.append(label);layer.append(tag);}
 }
 function stopCamera(){document.body.classList.remove('live-mode');cameraEpoch++;clearTimeout(loopTimer);if(stream)stream.getTracks().forEach(t=>t.stop());stream=null;$('video').srcObject=null;$('viewfinder').classList.remove('camera-active');$('camera-controls').hidden=true;$('camera-empty').hidden=false;$('live-state').textContent='';clearDetections();}
 $('close-camera').onclick=stopCamera;

diff --git a/public/sw.js b/public/sw.js
@@ -1,4 +1,4 @@
-const CACHE='price-lens-v2';
+const CACHE='price-lens-v3';
 self.addEventListener('install',event=>{event.waitUntil(caches.open(CACHE).then(cache=>cache.addAll(['./','./icon.svg','./manifest.webmanifest'])));self.skipWaiting()});
 self.addEventListener('activate',event=>{event.waitUntil(caches.keys().then(keys=>Promise.all(keys.filter(k=>k.startsWith('price-lens-')&&k!==CACHE).map(k=>caches.delete(k)))));self.clients.claim()});
 self.addEventListener('fetch',event=>{if(event.request.method!=='GET'||new URL(event.request.url).origin!==self.location.origin)return;event.respondWith(fetch(event.request).then(response=>{if(response.ok){const copy=response.clone();caches.open(CACHE).then(cache=>cache.put(event.request,copy))}return response}).catch(()=>caches.match(event.request))) });

diff --git a/DESIGN.md b/DESIGN.md
@@ -1,0 +1,29 @@
+# Price Lens — interface review and redesign
+
+2026-11-18. Requested by Arun: “please go through ui ux and create a beautiful one.”
+
+## Problems addressed
+- Initial mobile hero pushed the actual tool down the page.
+- Full currency names competed for narrow select space.
+- Repeated instructions, proof badges and rate information had similar visual priority.
+- Camera-off and camera-on states did not share a coherent design system.
+- Camera overlays needed edge-aware label placement.
+
+## Design system
+Warm paper canvas, ink-green camera surface, citrus primary action and detections. DM Sans for controls/numbers; DM Serif Display for editorial moments. Original SVG iconography and price-tag illustration. No photographed product mockups or fake scanned results.
+
+## Hierarchy
+1. Away/Home currency controls: large codes, readable currency names, native full-area pickers.
+2. Camera: one clear action before permission; live status and 44px close control after opening.
+3. Result: original amount beside home-currency label; large converted number and fee caveat.
+4. Rate metadata: disclosure, not competing with the result.
+5. Privacy/help: available without onboarding friction.
+
+Mobile is the app, not a landing page. Desktop adds contextual editorial content alongside the same working scanner. Permission errors appear directly below the camera. Detection labels switch sides near frame edges.
+
+## Verification
+- Visually inspected fresh-context 390px mobile, 1440px desktop and 320px small-screen renderings.
+- Confirmed primary camera button stays in the viewport and inside the viewfinder at checked sizes.
+- Native currency picker semantics, visible focus rings, reduced-motion treatment, semantic disclosure, help modal and live result announcements.
+- All 13 browser integration checks pass: continuous real OCR with changing synthetic video, automatic conversion, stale-label clearing, close/reopen lifecycle, four responsive widths, help and saved-rate fallback. Four unit groups pass; production build passes.
+- Physical phones, native permission dialogs, VoiceOver/TalkBack and real-world camera performance remain unverified.

diff --git a/RELEASE.md b/RELEASE.md
@@ -34,3 +34,7 @@ Arun clarified that the app must be live camera, not photo capture. Replaced the
 - Live mode puts the camera first and hides the marketing introduction.
 
 Recognition uses sampled frames, not every-frame AR; speed and accuracy on physical phones remain unverified. Earlier still/photo verification above refers to superseded v1.
+
+# Camera-first visual redesign — 2026-11-18
+
+Replaced the interface with a coherent ink/citrus/paper system, original vector illustration, large-code native currency controls, thumb-sized camera actions, source/converted amount hierarchy and collapsed rate details. Desktop editorial layout; mobile tool-first layout. See DESIGN.md for review and evidence limits.
